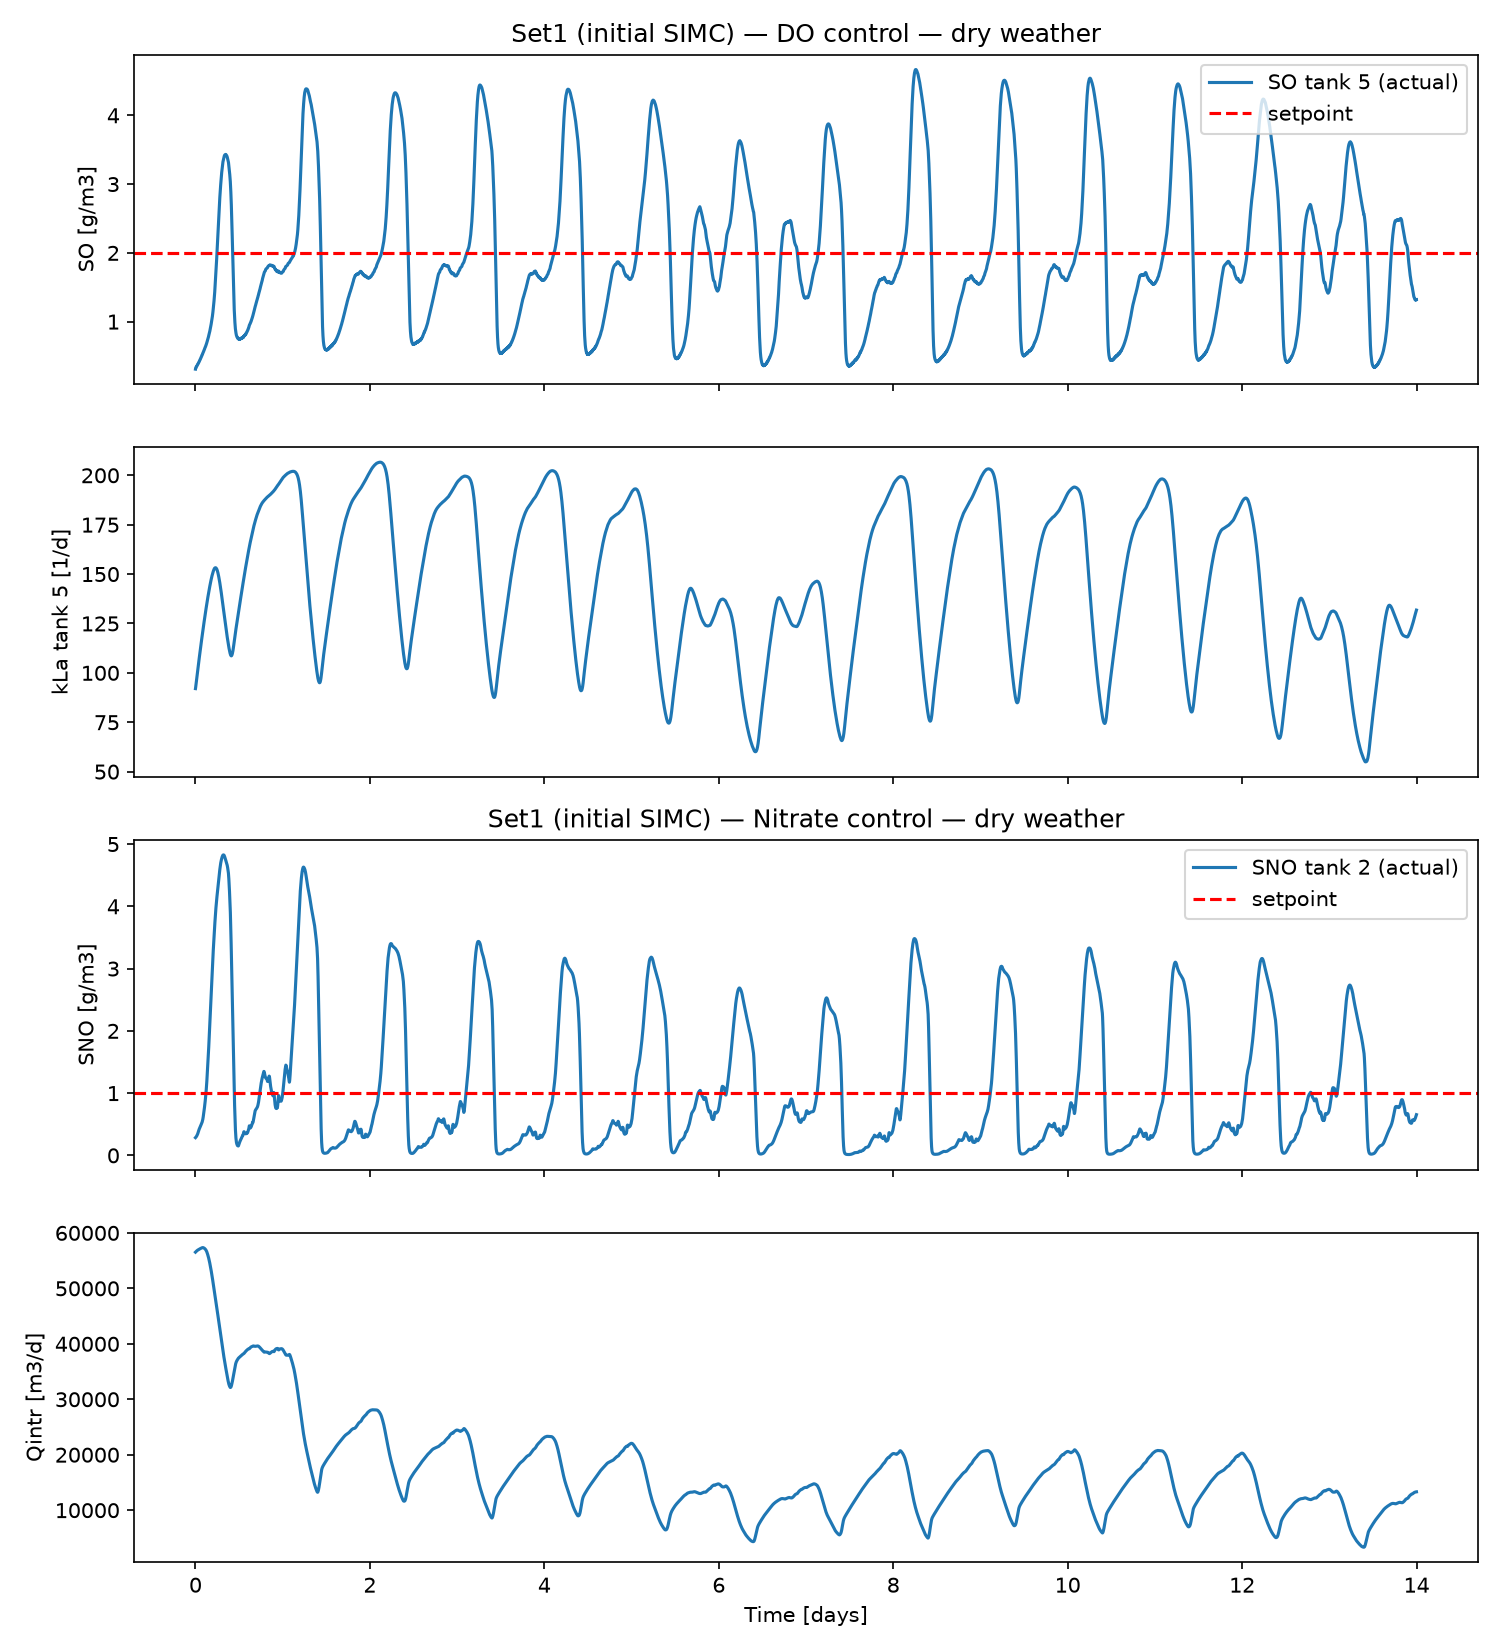
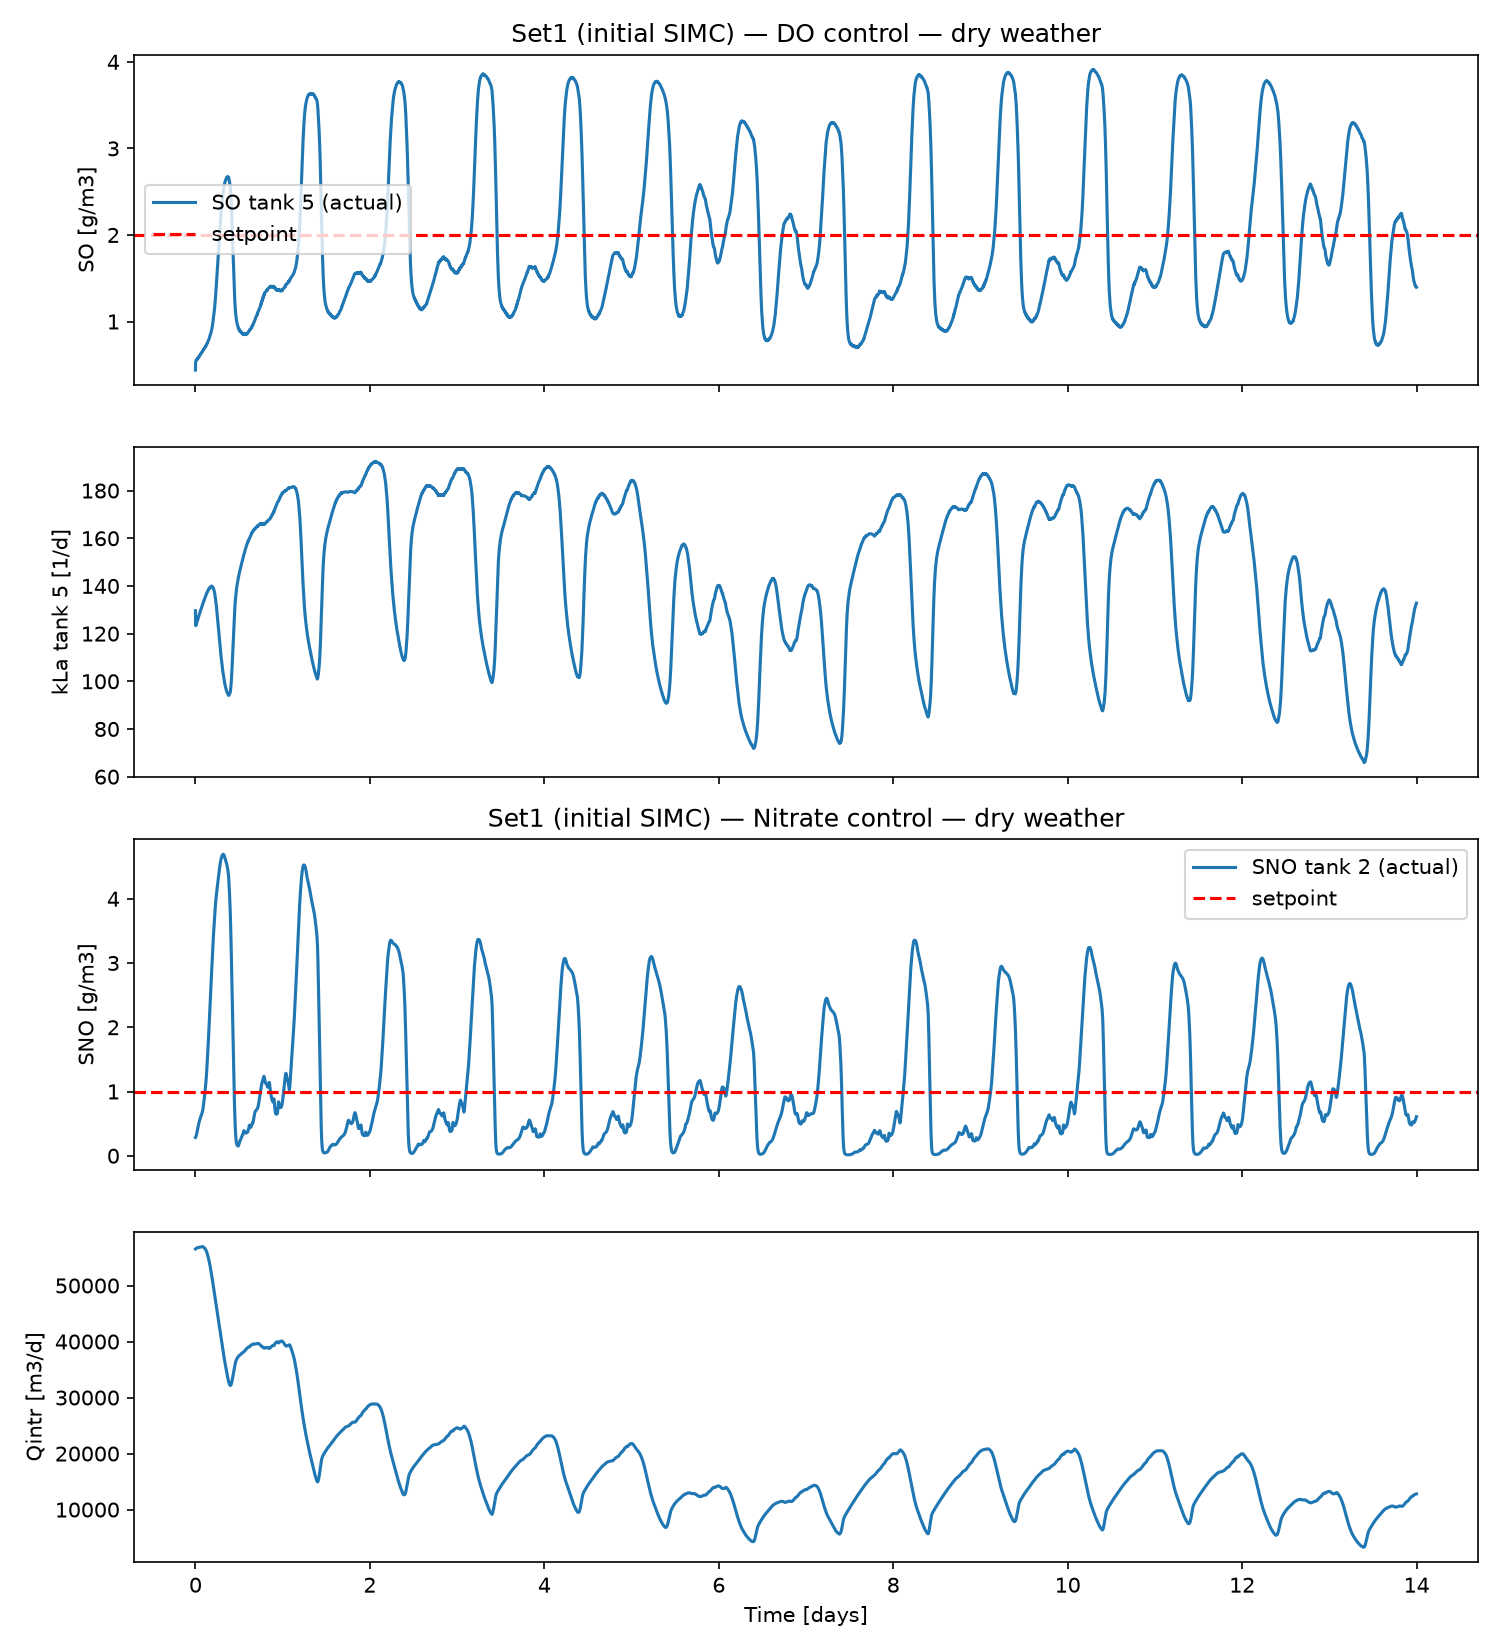
Step 3/4: final corrected PI tuning comparison, dry weather

diff --git a/step3_closed_loop.py b/step3_closed_loop.py
@@ -27,7 +27,7 @@ SP_SO = 2.0   # g/m3, setpoint for DO in tank 5
 SP_SNO = 1.0  # g/m3, setpoint for nitrate in tank 2
 
 # ---- FOPDT parameters from Step 2 ----
-KLA_K, KLA_TAU, KLA_THETA = 0.01150, 0.0198, 0.1906
+KLA_K, KLA_TAU, KLA_THETA = 0.03776, 0.2417, 0.0001
 QINTR_K, QINTR_TAU, QINTR_THETA = 0.00019, 0.0625, 0.1000
 
 # ---- actuator limits ----
@@ -35,9 +35,8 @@ KLA_MIN, KLA_MAX = 0.0, 240.0
 QINTR_MIN, QINTR_MAX = 0.0, 200000.0
 
 # ---- the two tuning sets we are comparing ----
-kp_kla_aggr, ti_kla_aggr = simc_tuning(KLA_K, KLA_TAU, KLA_THETA)                    # Set 1: aggressive
-kp_kla_soft, _ = simc_tuning(KLA_K, KLA_TAU, KLA_THETA, tc=3 * KLA_THETA)            # Set 2: gentler DO loop
-ti_kla_soft = 4 * KLA_THETA
+kp_kla_aggr, ti_kla_aggr = simc_tuning(KLA_K, KLA_TAU, KLA_THETA, tc=KLA_TAU)        # Set 1: faster (Tc = tau)
+kp_kla_soft, ti_kla_soft = simc_tuning(KLA_K, KLA_TAU, KLA_THETA, tc=3 * KLA_TAU)    # Set 2: gentler (Tc = 3*tau)
 
 kp_qintr_aggr, ti_qintr_aggr = simc_tuning(QINTR_K, QINTR_TAU, QINTR_THETA)          # nitrate loop: keep as-is for both sets
 
